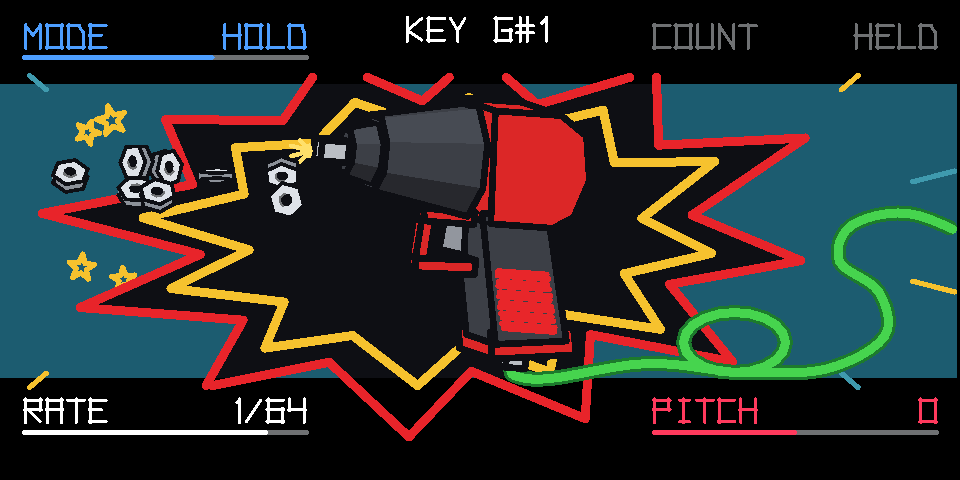
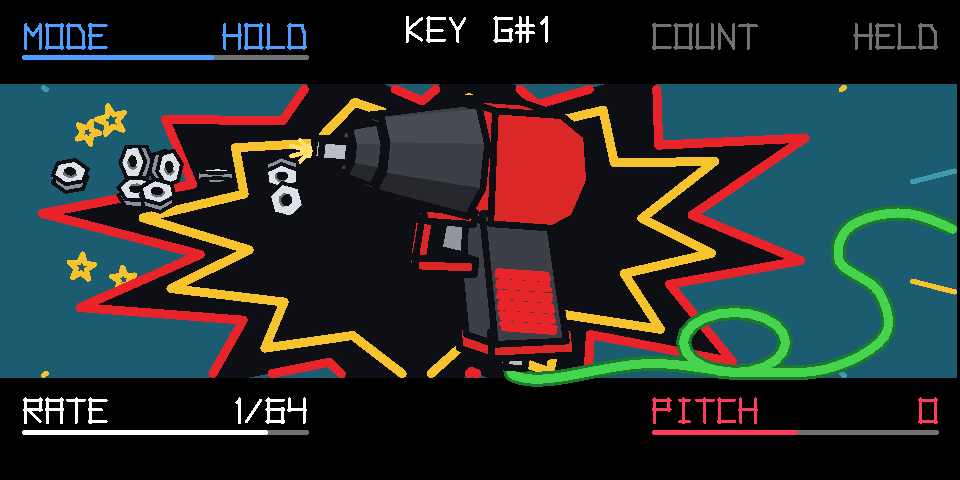
UZ-1 0.3.3: MODE runs one, flam, ratchet, hold; play effects stay on the teal panel
- MODE order ONE, FLAM, RATCHET, HOLD (saved sounds keep their modes).
- The bang's outlines, rays and stars are cut to the teal panel (tline), clear
  of the black strips; the hose is drawn as before. README screenshot redone.
- Test: a one-hit frame sequence for stills; effects-on-panel check.

diff --git a/test/uz1_test.c b/test/uz1_test.c
@@ -207,6 +207,22 @@ static int band_escapes(void)
     }
     return bad;
 }
+/* the play effects (the bang's outlines, rays and stars: yellow, red, light teal) with any of their stroke off the teal
+ * panel, into the black strips above and below it */
+static int fx_off_panel(void)
+{
+    int bad = 0;
+    for (int i = dyn_from; i < nops; i++) {
+        if (ops[i] < 0) continue;
+        const hline *l = &lines[ops[i]];
+        const int fx = (l->c[0] == COL_YEL[0] && l->c[1] == COL_YEL[1]) || (l->c[0] == COL_BANG_R[0] && l->c[1] == COL_BANG_R[1])
+                    || (l->c[0] == COL_TEAL_L[0] && l->c[1] == COL_TEAL_L[1]);
+        if (!fx) continue;
+        const int32_t lo = (l->y0 < l->y1 ? l->y0 : l->y1) - l->w / 2, hi = (l->y0 > l->y1 ? l->y0 : l->y1) + l->w / 2;
+        if (lo < PX(TEAL_Y0) - 64 || hi > PX(TEAL_Y1) + 64) bad++;
+    }
+    return bad;
+}
 /* text strokes (1 px lines) per corner, and any outside the label areas, title and status rows */
 static void text_scan(int *cnt, int cor[4], int *bad)
 {
@@ -485,15 +501,17 @@ int main(int argc, char **argv)
     play_key(7);
     CHECK(sel == 7, "playing a key shows its page");
     CHECK(fget(snd.cfg[7], K_MODE) == M_ONE, "a new key is a plain one-shot (ONE)");
-    CHECK(turn(OP1_ENG_T1, 0, 1, 0) == 1 && fget(stored_cfg(0, 7), K_MODE) == M_RATCHET, "blue: MODE, one click on from ONE is RATCHET, stored with the sound");
+    CHECK(turn(OP1_ENG_T1, 0, 1, 0) == 1 && fget(stored_cfg(0, 7), K_MODE) == M_FLAM, "blue: MODE, one click on from ONE is FLAM, stored with the sound");
+    turn(OP1_ENG_T1, 0, 1, 0);
+    CHECK(fget(stored_cfg(0, 7), K_MODE) == M_RATCHET, "then RATCHET");
     turn(OP1_ENG_T1, 0, 9, 0);
-    CHECK(fget(stored_cfg(0, 7), K_MODE) == M_FLAM, "MODE runs ONE, RATCHET, HOLD, FLAM, and stops there");
+    CHECK(fget(stored_cfg(0, 7), K_MODE) == M_HOLD, "MODE runs ONE, FLAM, RATCHET, HOLD, and stops there");
     turn(OP1_ENG_T1, 0, -9, 0);
     CHECK(fget(stored_cfg(0, 7), K_MODE) == M_ONE, "and back to ONE");
     uint32_t c7 = stored_cfg(0, 7);
     turn(OP1_ENG_T1, 1, 3, 0); turn(OP1_ENG_T1, 2, -2, 0); turn(OP1_ENG_T1, 3, -5, 1);
     CHECK(stored_cfg(0, 7) == c7, "ONE: COUNT, RATE and SLOPE do nothing (one hit), their knobs change nothing");
-    turn(OP1_ENG_T1, 0, 1, 0);
+    turn(OP1_ENG_T1, 0, 2, 0);                                                     /* RATCHET */
     turn(OP1_ENG_T1, 1, 3, 0); turn(OP1_ENG_T1, 2, -2, 0); turn(OP1_ENG_T1, 3, 30, 0);
     c7 = stored_cfg(0, 7);
     CHECK(host_eng_data[0][DATA_CNT + 7] == 7 && fget(c7, K_RATE) == 2 && fget(c7, K_PITCH) == 24, "RATCHET: green COUNT (4 + 3: one a click), white RATE, orange PITCH (clamped at +12)");
@@ -530,12 +548,12 @@ int main(int argc, char **argv)
     CHECK(fget(c7, K_MODE) == M_HOLD && stored_cfg(0, 7) == c7, "HOLD: COUNT does nothing (it repeats while held)");
     turn(OP1_ENG_T1, 2, 1, 0);
     CHECK(fget(stored_cfg(0, 7), K_RATE) == 3, "HOLD: RATE does");
-    turn(OP1_ENG_T1, 0, 1, 0); c7 = stored_cfg(0, 7);                           /* FLAM */
+    turn(OP1_ENG_T1, 0, -2, 0); c7 = stored_cfg(0, 7);                          /* FLAM, two back */
     turn(OP1_ENG_T1, 2, 2, 0);
     CHECK(fget(c7, K_MODE) == M_FLAM && stored_cfg(0, 7) == c7, "FLAM: RATE does nothing");
     turn(OP1_ENG_T1, 1, -1, 0);
     CHECK(fget(stored_cfg(0, 7), K_COUNT) == 1 && host_eng_data[0][DATA_CNT + 7] == 7, "FLAM: COUNT sets the gap (RATCHET's count kept)");
-    turn(OP1_ENG_T1, 0, -2, 0);
+    turn(OP1_ENG_T1, 0, 1, 0);                                                     /* RATCHET again */
     CHECK(stored_cfg(0, 6) == CFG_DEFAULT && stored_cfg(0, 8) == CFG_DEFAULT, "the other keys are untouched");
     have_clip = 0; play_key(9); const uint32_t c9 = stored_cfg(0, 9);
     CHECK(push(OP1_ENG_T1, 1, 0) == 1 && stored_cfg(0, 9) == c9, "green push with nothing copied does nothing");
@@ -602,7 +620,9 @@ int main(int argc, char **argv)
     CHECK(!bad, "text stays in its rows, out of the moving band (%d strokes out)", bad);
     int escapes = 0, most = 0, frames_n = 0;
     int banged = 0;
-    for (int i = 0; i < 40; i++) { run_ms(16); frame(i == 6 ? "ratchet firing" : i == 14 ? "bolts in flight" : "firing"); escapes += band_escapes(); if (vis_bolts > most) most = vis_bolts; banged += vis_bang; frames_n++; }
+    int fx_off = 0;
+    for (int i = 0; i < 40; i++) { run_ms(16); frame(i == 6 ? "ratchet firing" : i == 14 ? "bolts in flight" : "firing"); escapes += band_escapes(); fx_off += fx_off_panel(); if (vis_bolts > most) most = vis_bolts; banged += vis_bang; frames_n++; }
+    CHECK(fx_off == 0, "the bang, its rays and stars stay on the teal panel, clear of the black strips (%d strokes over)", fx_off);
     CHECK(most >= 4, "every hit fires a bolt (up to %d in the air)", most);
     CHECK(banged >= 8, "the comic bang flashes while it fires (%d frames)", banged);
     { const uint32_t a0 = wig_a; frame("idle turn"); const uint32_t idle = wig_a - a0;
@@ -633,7 +653,11 @@ int main(int argc, char **argv)
       for (int j = 0; j < dyn_from; j++) { if (lines[j].w == 1024) { grey_txt += lines[j].c[0] == COL_GREY[0] && lines[j].c[1] == COL_GREY[1]; continue; }
           if (lines[j].y0 == lines[j].y1 && lines[j].y0 == OP1_Q10(19) && lines[j].x0 > OP1_Q10(216)) gauge_r++;
           if (lines[j].y0 == lines[j].y1 && lines[j].y0 == OP1_Q10(LBL_Y1 + 11) && lines[j].x0 < OP1_Q10(104)) gauge_w++; }
-      CHECK(gauge_r == 0 && gauge_w == 0 && grey_txt > 10, "a one-shot page: COUNT and RATE grey, with no gauge (%d, %d gauge lines)", gauge_r, gauge_w); }
+      CHECK(gauge_r == 0 && gauge_w == 0 && grey_txt > 10, "a one-shot page: COUNT and RATE grey, with no gauge (%d, %d gauge lines)", gauge_r, gauge_w);
+      /* one hit, frame by frame, for a still of its nut in flight */
+      for (int i = 0; i < 80; i++) frame("one-shot page, settling");
+      reset(); on(0, page_midi(3), 127); run_blocks(1); off(0);
+      for (int i = 0; i < 40; i++) { frame("one hit"); if (getenv("UZ_NUT")) for (int j = 0; j < 24; j++) if (bolts[j].on) printf("one hit %d: nut x %.1f y %.1f\n", i, bolts[j].x / 1024.0, bolts[j].y / 1024.0); } }
     all_keys(CFG_DEFAULT); C24[3] = kcfg(M_RATCHET, 3, 4, 0, -2, V_ALT, 5, 15, 15); put_sound(0, SRC_AUTO, 0, 100, 0, 0, C24);
     { choke_key(0, 3, 1); play_key(3); frame("choke key");
       int orange = 0, bad_c; int cor_c[4], txt_c; text_scan(&txt_c, cor_c, &bad_c);

diff --git a/plugin/uz1/uz1.c b/plugin/uz1/uz1.c
@@ -74,7 +74,7 @@ static const uint8_t RATE_DEN[8] = { 2, 3, 4, 6, 8, 12, 16, 24 };       /* beats
 static const char *const RATE_TXT[8] = { "1/8", "1/8T", "1/16", "1/16T", "1/32", "1/32T", "1/64", "1/64T" };
 static const char *const MODE_TXT[M_N] = { "HOLD", "RATCHET", "FLAM", "ONE" };
 /* the MODE knob's order (the saved values stay as the enum): ONE, the default, first */
-static const uint8_t MODE_ORDER[M_N] = { M_ONE, M_RATCHET, M_HOLD, M_FLAM };
+static const uint8_t MODE_ORDER[M_N] = { M_ONE, M_FLAM, M_RATCHET, M_HOLD };
 static inline int mode_pos(int m) { for (int i = 0; i < M_N; i++) if (MODE_ORDER[i] == m) return i; return 0; }
 /* whether a setting does anything in the key's mode: COUNT is the count (RATCHET) or the gap (FLAM); RATE spaces the
  * hits of RATCHET and HOLD; SLOPE needs more than one hit. The others always count. A setting that doesn't is shown
@@ -999,12 +999,13 @@ static void bang_new(void)
     for (int i = 0; i < BANG_N; i++) bang_jit[i] = (uint8_t)(rnd_px(40) + 40);     /* 0 .. 80 */
     for (int i = 0; i < 4; i++) { bang_star[i][0] = (uint8_t)(rnd_px(8) + 24 + (i & 1) * 266); bang_star[i][1] = (uint8_t)(rnd_px(5) + (i & 2 ? 88 : 40)); bang_star[i][2] = (uint8_t)rnd_px(100); }
 }
-/* a line cut to the moving areas (the band, and the column under it), w wide (Q10) */
-static void cline(void *r, op1_pt a, op1_pt b, int32_t w, const uint8_t *c)
+#define TEAL_Y0   (BAND_Y0 + 4)               /* the teal panel: the band, 4 px in at the top and bottom */
+#define TEAL_Y1   (BAND_Y1 - 4)
+/* a line cut to rectangles (px), its whole stroke (w wide, Q10) inside them */
+static void clip_line(void *r, op1_pt a, op1_pt b, int32_t w, const uint8_t *c, const int16_t (*RC)[4], int nr)
 {
-    static const int16_t RC[2][4] = { { 0, BAND_Y0, 319, BAND_Y1 }, { COL_X0, BAND_Y0, COL_X1, SCR_Y1 } };
     const int32_t m = w / 2 + 128;
-    for (int k = 0; k < 2; k++) {
+    for (int k = 0; k < nr; k++) {
         const int32_t x0 = PX(RC[k][0]) + m, y0 = PX(RC[k][1]) + m, x1 = PX(RC[k][2]) - m, y1 = PX(RC[k][3]) - m;
         const int64_t dx = b.x - a.x, dy = b.y - a.y;
         int64_t t0 = 0, t1 = 65536;                            /* Liang-Barsky, Q16 */
@@ -1022,6 +1023,19 @@ static void cline(void *r, op1_pt a, op1_pt b, int32_t w, const uint8_t *c)
         op1_raster_line(r, &p0, &p1, w, c);
     }
 }
+/* a line cut to the moving areas (the band, and the column under it): the hose */
+static void cline(void *r, op1_pt a, op1_pt b, int32_t w, const uint8_t *c)
+{
+    static const int16_t RC[2][4] = { { 0, BAND_Y0, 319, BAND_Y1 }, { COL_X0, BAND_Y0, COL_X1, SCR_Y1 } };
+    clip_line(r, a, b, w, c, RC, 2);
+}
+/* a line cut to the teal panel: the play effects (the bang's outlines, its rays and stars) stay on it, clear of the
+ * black strips above and below it */
+static void tline(void *r, op1_pt a, op1_pt b, int32_t w, const uint8_t *c)
+{
+    static const int16_t RC[1][4] = { { 0, TEAL_Y0, 319, TEAL_Y1 } };
+    clip_line(r, a, b, w, c, RC, 1);
+}
 static void star(void *r, int32_t x, int32_t y, int32_t rr, int32_t a)
 {
     op1_pt q[10];
@@ -1029,7 +1043,7 @@ static void star(void *r, int32_t x, int32_t y, int32_t rr, int32_t a)
         const int32_t t = a + i * 819 - 2048, l = i & 1 ? rr * 2 / 5 : rr;
         q[i].x = x + ((l * tcos(t)) >> 15); q[i].y = y + ((l * tsin(t)) >> 15);
     }
-    for (int i = 0, j = 9; i < 10; j = i++) cline(r, q[j], q[i], 0x700, COL_YEL);
+    for (int i = 0, j = 9; i < 10; j = i++) tline(r, q[j], q[i], 0x700, COL_YEL);
 }
 /* the burst: spikes and notches in turn, on an ellipse rx x ry (Q10) around (cx, cy), scaled by k Q10 */
 static void burst(op1_pt *q, int32_t cx, int32_t cy, int32_t rx, int32_t ry, int32_t k, int32_t inner)
@@ -1068,8 +1082,6 @@ static void fill_clipped(const op1_pt *p, int n, int32_t x0, int32_t y0, int32_t
     if (m >= 3) fill_poly(b, m, c);
 }
 #define BANG_RX 150                           /* around the whole wrench, nose to grip */
-#define TEAL_Y0   (BAND_Y0 + 4)               /* the teal panel: the band, 4 px in at the top and bottom */
-#define TEAL_Y1   (BAND_Y1 - 4)
 #define BANG_RY 80
 static void backdrop(void *r, int32_t gunx)
 {
@@ -1082,7 +1094,7 @@ static void backdrop(void *r, int32_t gunx)
         const int32_t a = i * 512 + 256, ca = tcos(a), sa = tsin(a);
         const op1_pt o = { cx + (int32_t)((int64_t)PX(BANG_RX) * 17 / 16 * ca >> 15), cy + (int32_t)((int64_t)PX(BANG_RY) * 17 / 16 * sa >> 15) };
         const op1_pt e = { cx + (int32_t)((int64_t)PX(420) * ca >> 15), cy + (int32_t)((int64_t)PX(420) * sa >> 15) };
-        cline(r, o, e, 0x700, i & 1 ? COL_TEAL_L : COL_YEL);
+        tline(r, o, e, 0x700, i & 1 ? COL_TEAL_L : COL_YEL);
     }
     for (int i = 0; i < 4; i++) star(r, PX(bang_star[i][0]), PX(bang_star[i][1]), PX(4) + (bang_star[i][2] & 3) * 500, bang_star[i][2] * 40);
     op1_pt q[BANG_N];
@@ -1090,8 +1102,8 @@ static void backdrop(void *r, int32_t gunx)
     burst(y, cx, cy, PX(BANG_RX), PX(BANG_RY), k * 12 / 16, 680);          /* yellow, inside */
     burst(q, cx, cy, PX(BANG_RX), PX(BANG_RY), k, 640);                    /* red, outside: all of it filled black */
     fill_clipped(q, BANG_N, 1, PX(TEAL_Y0), PX(319) - 1, PX(TEAL_Y1), COL_INK);
-    for (int i = 0, j = BANG_N - 1; i < BANG_N; j = i++) cline(r, q[j], q[i], 0xC00, COL_BANG_R);
-    for (int i = 0, j = BANG_N - 1; i < BANG_N; j = i++) cline(r, y[j], y[i], 0xC00, COL_YEL);
+    for (int i = 0, j = BANG_N - 1; i < BANG_N; j = i++) tline(r, q[j], q[i], 0xC00, COL_BANG_R);
+    for (int i = 0, j = BANG_N - 1; i < BANG_N; j = i++) tline(r, y[j], y[i], 0xC00, COL_YEL);
 }
 /* the air hose: from the inlet under the grip, along to the right, once round a loop-the-loop halfway, and off the
  * right of the screen */

diff --git a/README.md b/README.md
@@ -41,9 +41,9 @@ and its settings page comes up (its name at the top of the screen).
 | Mode | What the key does |
 |---|---|
 | **ONE** | A single hit |
+| **FLAM** | A soft grace note, then the main hit GAP later |
 | **RATCHET** | Plays COUNT hits at RATE, then stops, whatever the key does (tap it and let go) |
 | **HOLD** | Repeats at RATE for as long as the key is down |
-| **FLAM** | A soft grace note, then the main hit GAP later |
 
 Every key starts as **ONE**, a plain one-shot, until you give it a pattern.
 
@@ -61,7 +61,7 @@ corner of the screen in that encoder's colour shows it.
 
 | Encoder | Turn | Shift + turn | Push |
 |---|---|---|---|
-| Blue | **MODE**: one, ratchet, hold, flam | **VEL**: flat, alt lo/mid/hi, hum lo/hi, ramp lo/hi, sag lo/hi | copy this key |
+| Blue | **MODE**: one, flam, ratchet, hold | **VEL**: flat, alt lo/mid/hi, hum lo/hi, ramp lo/hi, sag lo/hi | copy this key |
 | Green | **COUNT** 2 .. 24, one a click (flam: **GAP** 10 .. 60 ms) | **LEVEL** 0 .. -30 dB | paste the copy over this key |
 | White | **RATE** 1/8, 1/8T, 1/16 .. 1/64T | **GATE** 4 ms .. 512 ms, full, or **ATTK** off, 1 .. 128 ms | **REV** on / off (Shift: GATE or ATTK) |
 | Orange | **PITCH** ±12 semitones | **SLOPE** ±6 semitones a hit | **CHOKE** on / off (Shift: reset this key) |

diff --git a/HANDOFF.md b/HANDOFF.md
@@ -52,7 +52,7 @@ Where the project stands and what to know before changing it. The plan it was bu
   frame, back faces culled, painter-sorted by depth, cel-shaded with ink on the silhouette and hard edges (`mnb`,
   `mcrease`, worked out once). `backdrop()` fills the band teal every frame (4 px in at the top and bottom); while firing it adds the
   red burst's inside, filled black (cut to the teal panel by `fill_clipped`), two 24-point burst outlines bigger than
-  the moving areas, 16 rays and 4 stars, the lines cut to `DYN` by `cline()`. The burst
+  the moving areas, 16 rays and 4 stars, the lines cut to the teal panel by `tline()` (from 0.3.2; `cline()`, to `DYN`, is the hose's). The burst
   shows from the first hit to 250 ms after the last, so fast rates don't strobe; it pops per hit. The hose (`hose()`)
   runs from the inlet into a loop-the-loop halfway to the screen's edge, then snakes up in an S (a Catmull-Rom
   curve through `SNAKE`) and off the right, also through `cline()`. If the GUI frame load is high on

diff --git a/CHANGELOG.md b/CHANGELOG.md
@@ -1,5 +1,14 @@
 # Changelog
 
+## 0.3.3 — 2026-11-19
+
+- MODE runs ONE, FLAM, RATCHET, HOLD (it was ONE, RATCHET, HOLD, FLAM). Saved sounds keep their modes.
+
+## 0.3.2 — 2026-11-19
+
+- The play effects stay on the teal panel: the bang's red and yellow outlines, its rays and its stars are cut at the
+  panel's edge and no longer run over the black strips above and below it. The hose still runs where it did.
+
 ## 0.3.1 — 2026-11-18
 
 - RATCHET's COUNT runs 2, 3, 4 … 24, one hit a click (it was 2 to 12, skipping). It has its own byte per key in the
